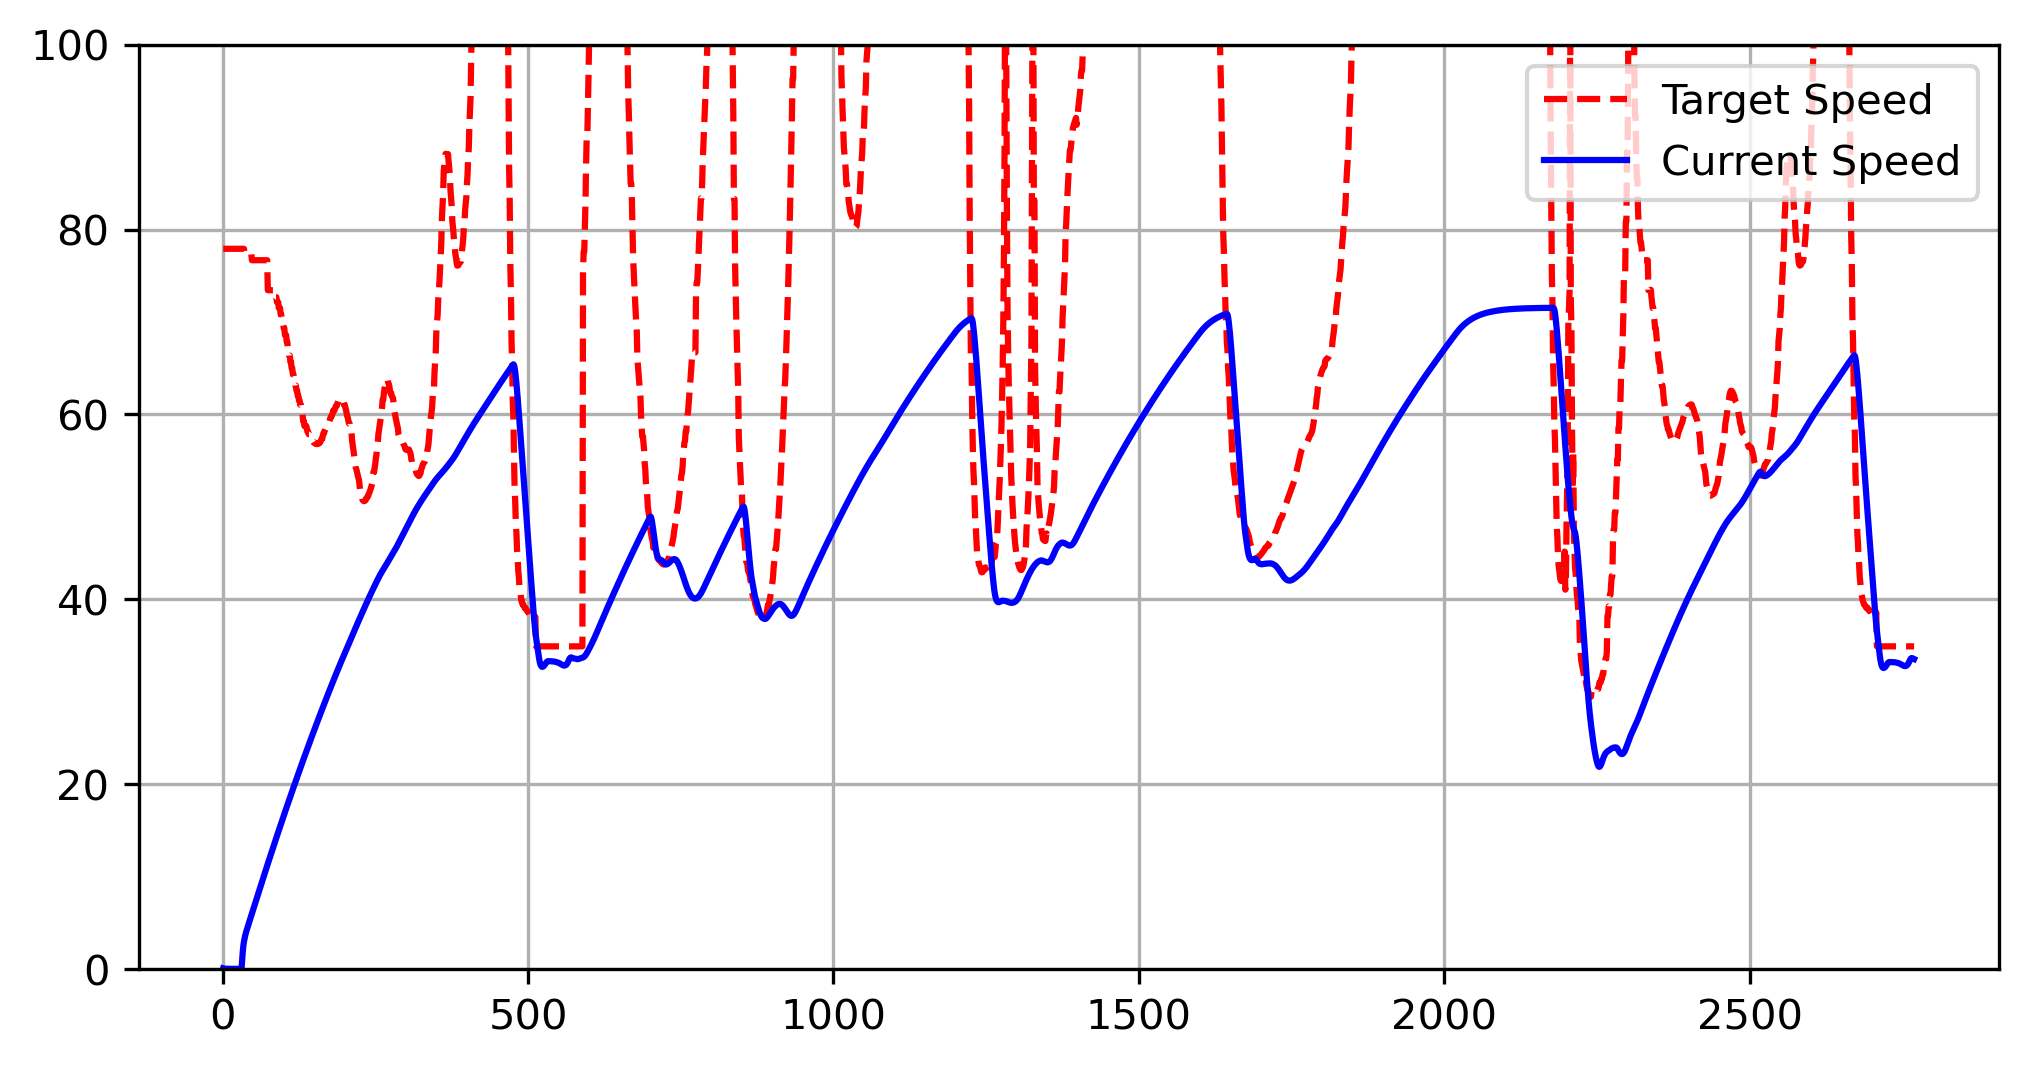
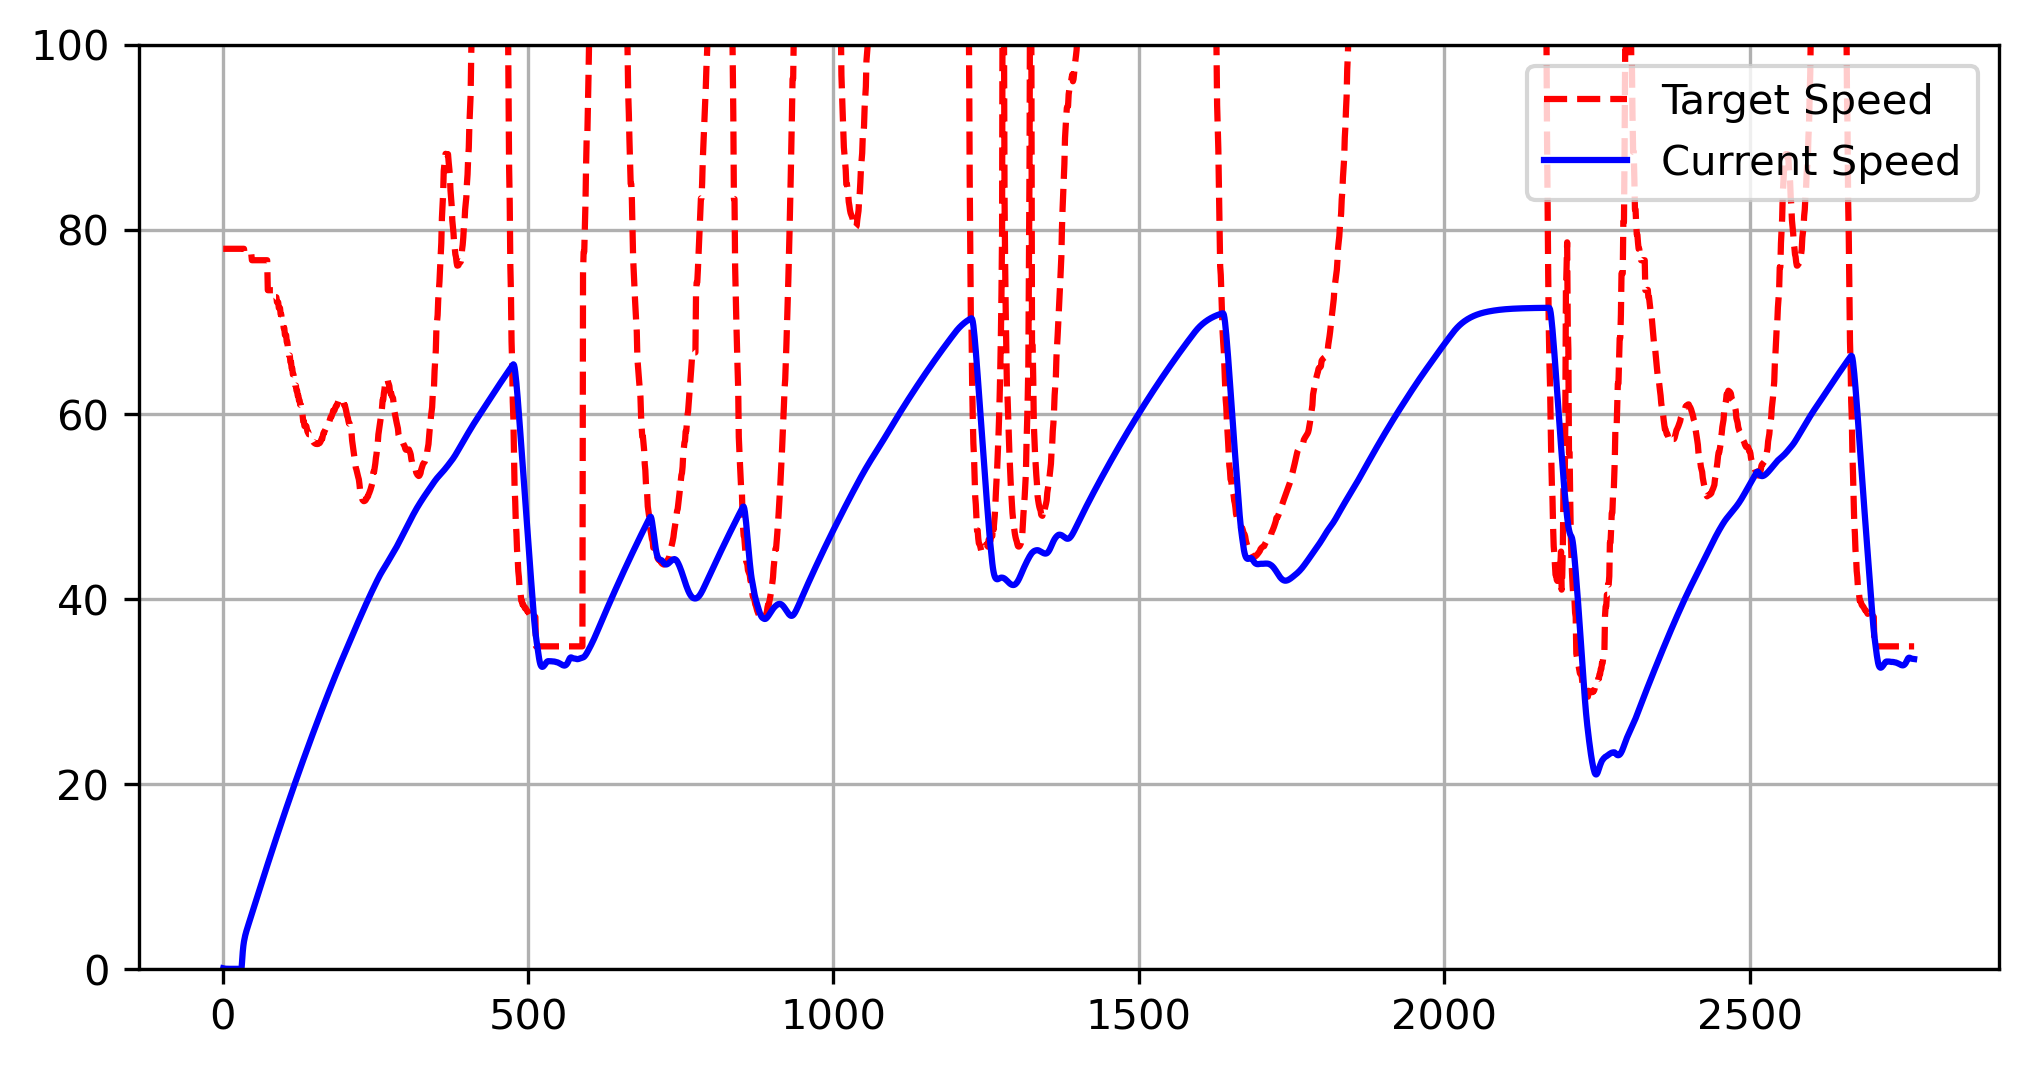
334.7

diff --git a/competition_code/util/Tuner.py b/competition_code/util/Tuner.py
@@ -2,7 +2,8 @@ class Tuner:
 
     @staticmethod
     def tune_target_speed(target_speed, waypoint):
-        if (waypoint < 450 or 745 <= waypoint <= 870 or 1200 <= waypoint <= 1450 or (waypoint >= 2550 and target_speed > 35)): return target_speed * 38/35
+        if (waypoint < 450 or 745 <= waypoint <= 870 or (waypoint >= 2550 and target_speed > 35)): return target_speed * 38/35
+        elif (1200 <= waypoint <= 1450): return target_speed * 40/35
         elif (waypoint >= 2550): return target_speed 
         elif (450 <= waypoint <= 510): return min(target_speed, 34.9)
         return target_speed * 44/35

diff --git a/competition_code/util/Plotter.py b/competition_code/util/Plotter.py
@@ -20,6 +20,7 @@ class Plotter:
         self.name = name
 
     def generate(self, target, current):
+        #if (1000 <= self.step_counter <= 1500): print("Plotting " + self.name + " at step " + str(self.step_counter))
         self.step_counter += 1
         self.time_steps.append(self.step_counter)
         self.targets.append(target)
